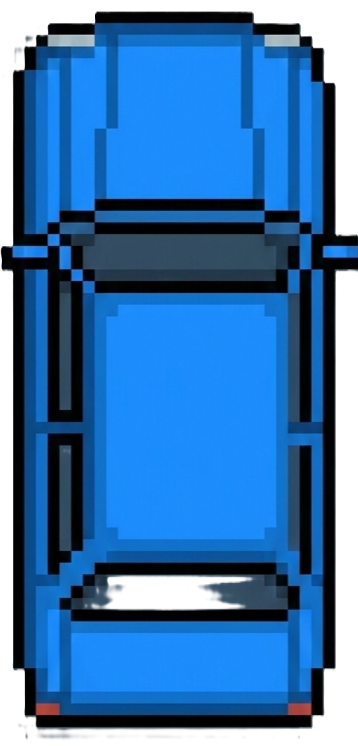
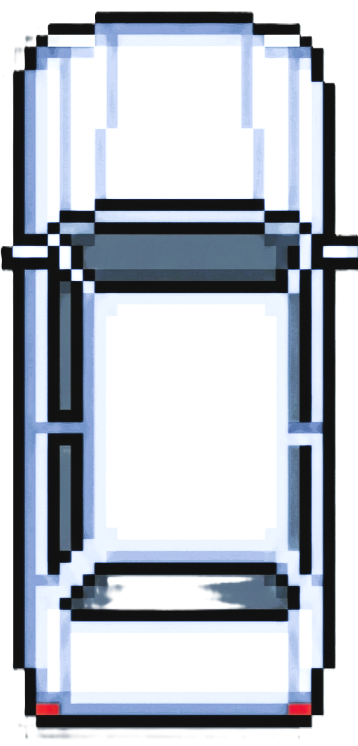
Front page and the assets updated

diff --git a/car.js b/car.js
@@ -23,7 +23,9 @@ class Car{
         this.controls=new Controls(controlType);
 
         this.img=new Image();
+        this.damagedImg=new Image();
         this.img.src="Car_image/car.png";
+        this.damagedImg.src="Car_image/damagedCar.png"
 
         this.mask=document.createElement("canvas");
         this.mask.width=width;
@@ -145,6 +147,9 @@ class Car{
     draw(ctx,drawSensor=false){
         if(this.sensor && drawSensor){
             this.sensor.draw(ctx);
+        }
+        if(this.damaged){
+            this.img=this.damagedImg;
         }
 
         ctx.save();

diff --git a/main.js b/main.js
@@ -166,8 +166,3 @@ function generateCars(N) {
     }
     return cars;
 }
-
-function getRandomColor() {
-    const hue = 290 + Math.random() * 260;
-    return "hsl(" + hue + ", 100%, 60%)";
-}

diff --git a/utils.js b/utils.js
@@ -49,5 +49,5 @@ function getRGBA(value){
 
 function getRandomColor(){
     const hue=290+Math.random()*260;
-    return "hsl("+hue+", 100%, 60%)";
+    return "hsl("+hue+", 100%, 25%)";
 }
